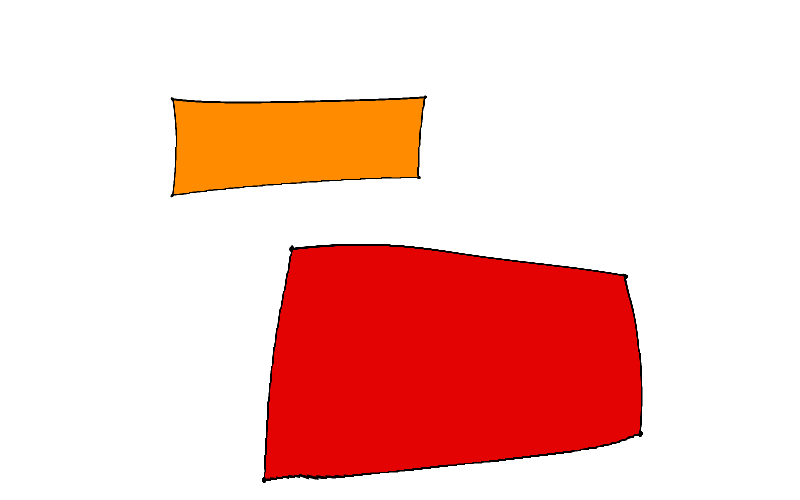
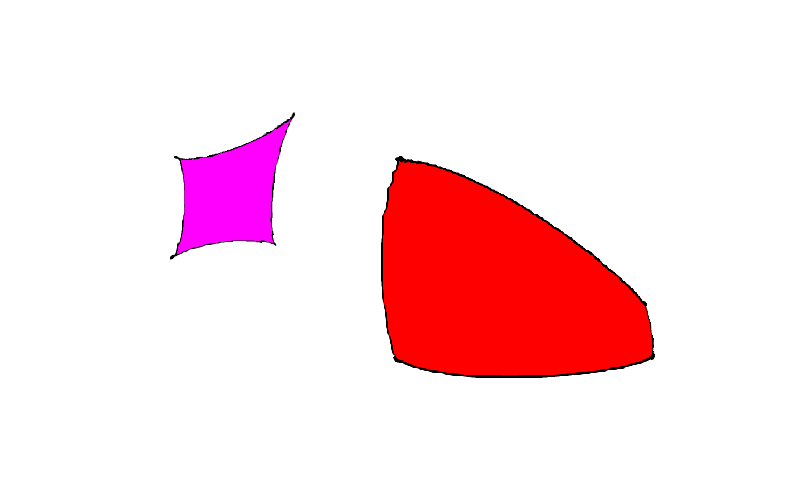
update to generate cartograms in 5 cycles

Changed region(s): [[0.2188, 0.18, 0.8438, 0.96]]

diff --git a/cartogram_maker/canvas_frame.py b/cartogram_maker/canvas_frame.py
@@ -146,21 +146,23 @@ class CanvasFrame(ctk.CTkFrame):
         # getting the width and height 
         w, h = im.width, im.height
 
-        # creating the weight matrix, row count is the height, column count is the width
-        # coordinates x, y correspond with column x row y
-        z = np.zeros((h, w))
+        # running 5 generation cycles
+        for i in range(5):
+            # creating the weight matrix, row count is the height, column count is the width
+            # coordinates x, y correspond with column x row y
+            z = np.zeros((h, w))
 
-        # creating the weight matrix
-        # #FFFFFF | (255, 255, 255) | white is set to weight average
-        # every other color is set to the weight value that corresponds to it in the json
-        for i in range(w):
-            for j in range(h):
-                hex_color = color_tuple_to_hex(im.getpixel((i, j)))
-                z[j, i] = color_to_weight.get(hex_color, weight_average)
+            # creating the weight matrix
+            # #FFFFFF | (255, 255, 255) | white is set to weight average
+            # every other color is set to the weight value that corresponds to it in the json
+            for i in range(w):
+                for j in range(h):
+                    hex_color = color_tuple_to_hex(im.getpixel((i, j)))
+                    z[j, i] = color_to_weight.get(hex_color, weight_average)
 
-        # generate the cartogram
-        # will also download to project_images/cartogram_tmp.png
-        im = cartogram(im, z)
+            # generate the cartogram
+            # will also download to project_images/cartogram_tmp.png
+            im = cartogram(im, z)
 
         # will also show the image 
         im.show()
